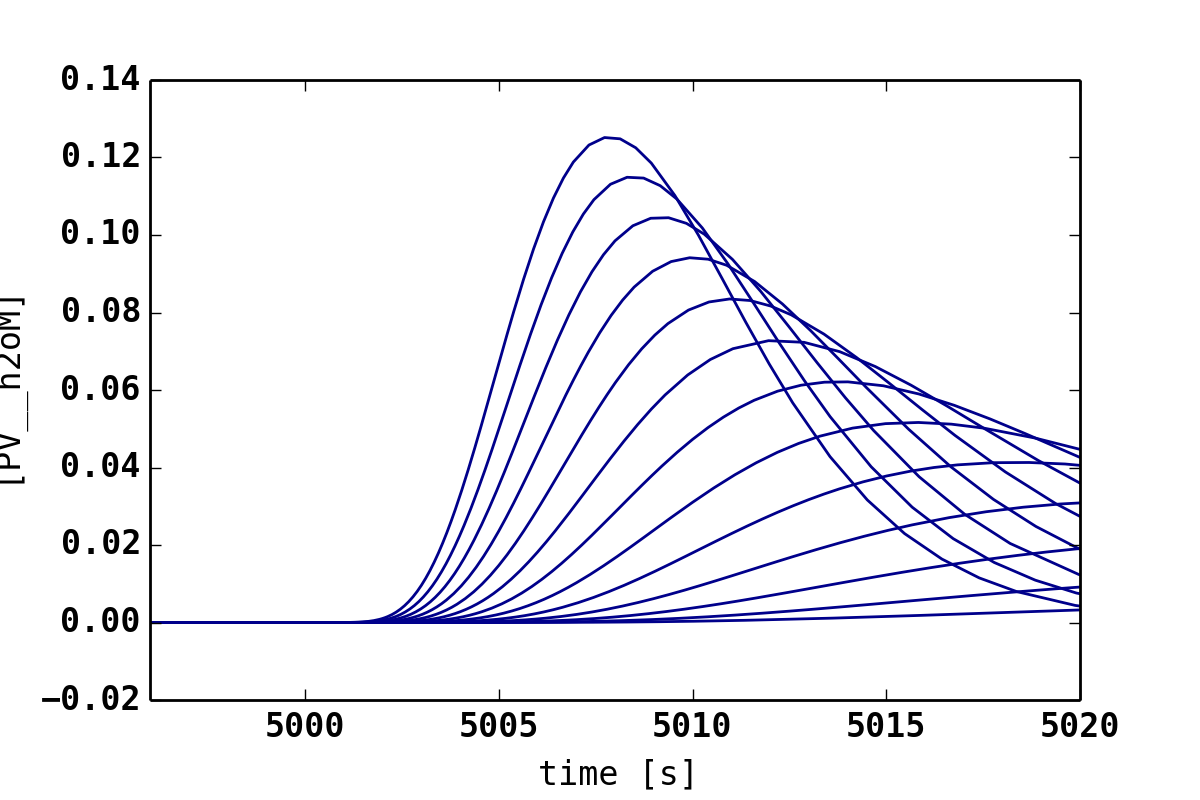
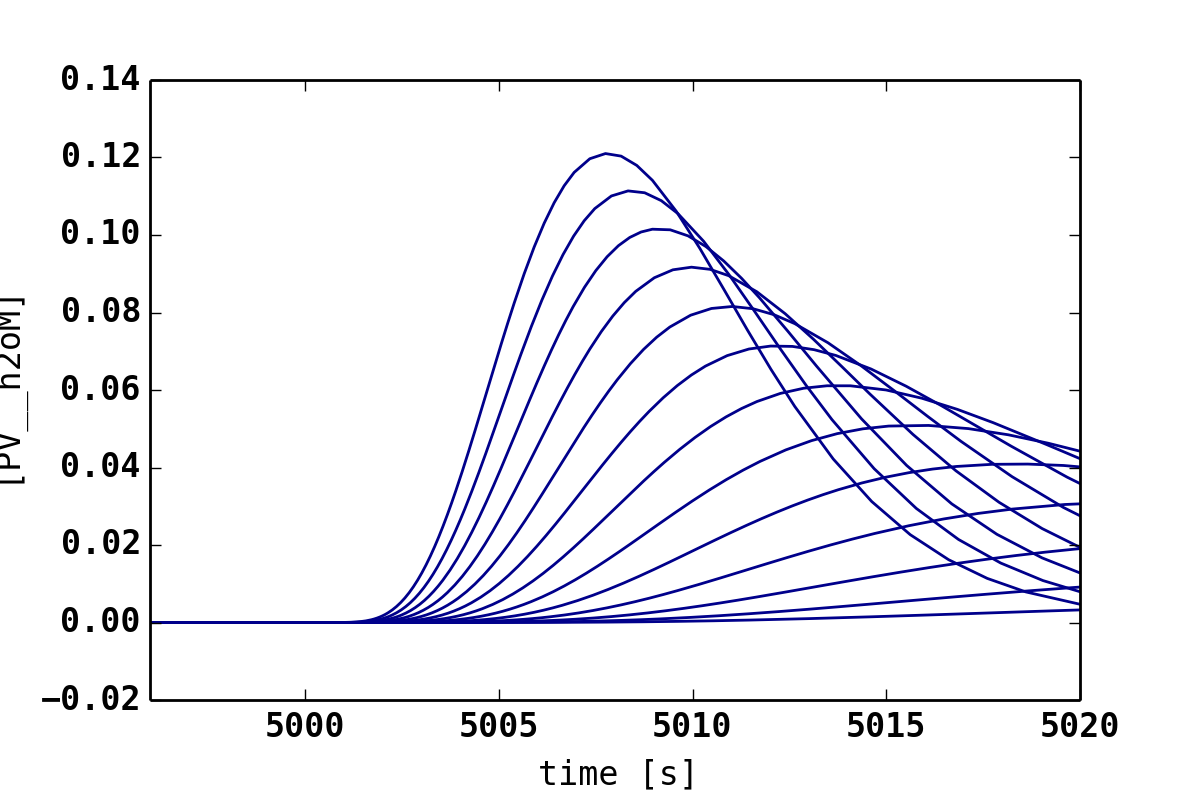
working on GEC curves in spyder

diff --git a/python/simulator/simulator/roadrunner_tools/galactose_dilution_flux.py b/python/simulator/simulator/roadrunner_tools/galactose_dilution_flux.py
@@ -42,27 +42,29 @@ sel_dict = rt.set_selection(r, sel)
 # distribution of fluxes
 flux = gf.flux_sample()
 p_flux = gf.flux_probability(flux)
+flow_sin = 0.5 * 1E-6 * flux # [m/s] (scaling to calculate in correct volume flow range)
 
-# Define the parameters
-# The parameters are extended via the fluxes. I.e. for all fluxes in the
-# flux sample the simulation is performed.
 
 #########################################################################    
 # Set parameters and integrate
-#########################################################################  
+######################################################################### 
+# Define the parameters
+# The parameters are extended via the fluxes. I.e. for all fluxes in the
+# flux sample the simulation is performed.
+ 
 gal_p_list = []
 # for gal in [0.28]:
 for gal in [0.28, 12.5, 17.5]:
     p_list = []
-    for f in flux:
+    for f in flow_sin:
         d = { 
               "[PP__gal]" : gal, 
-              "flow_sin" : f*1E-6 * 0.5,    
+              "flow_sin" : f,    
               "y_dis" : 2.4E-6,
               "f_cyto" : 0.5,
-              "scale_f" : 0.85,           
+              "scale_f" : 0.85/1.68,           
               "H2OT_f": 5.0,
-              "GLUT2_f" : 7, 
+              "GLUT2_f" : 11, 
               # "y_peak" : 0.5,
               # "GALK_PA" :  0.02,
               }
@@ -83,7 +85,7 @@ with open("flux_plots/parameters.txt", 'wb') as f:
 # Average
 #########################################################################  
 # Average via probability and flux weighted summation
-Q_sinunit = np.pi * r.y_sin**2 * flux # [m³/s]
+Q_sinunit = np.pi * r.y_sin**2 * flow_sin # [m³/s]
 weights = p_flux * Q_sinunit
 weights = weights/sum(weights)
 

diff --git a/python/simulator/simulator/roadrunner_tools/galactose_challenge.py b/python/simulator/simulator/roadrunner_tools/galactose_challenge.py
@@ -45,10 +45,18 @@ r.selections = sel
 #########################################################################    
 # Set parameters & simulate
 ######################################################################### 
+flow_sin = 0.5 * r.flow_sin # [m/s] (scaling to calculate in correct volume flow range)
+
 # set the boundary concentrations
 # PP__gal = (0.28, 5, 12.5, 17.5) # [mM]
 p_list = [
-   { "gal_challenge" : 8, "flow_sin" : 0.5*270E-6},
+   { "gal_challenge" : 8, 
+     "flow_sin" : flow_sin,
+     "y_dis" : 2.4E-6,
+     "f_cyto" : 0.5,
+     "scale_f" : 0.85,           
+     "H2OT_f": 5.0,
+     "GLUT2_f" : 7, },
 ]
 
 inits = {}
@@ -61,6 +69,24 @@ p.plot(test['time'], test['[PV__gal]'])
 p.plot(test['time'], test['[PP__gal]'])
 
 # calculate the GEC for given simulation
+# removal
+Q_sinunit = np.pi * r.y_sin**2 * flow_sin # [m³/s]
+Vol_sinunit = r.Vol_sinunit
+print Q_sinunit
+# Removal
+R = Q_sinunit * (test['[PP__gal]'] - test['[PV__gal]'])
+# GEC per volume tissue [mmol/min/ml]
+
+GEC = R/r.Vol_sinunit*60/1000    # [mmole/min/ml(liv)]
+Q = Q_sinunit/r.Vol_sinunit*60   # [ml/min/ml(liv)]
+print GEC[len(GEC)-1]
+print Q
+
+
+p.plot(test['time'], R)
+p.plot(test['time'], GEC)
+
+
 
 #########################################################################    
 # Plots
